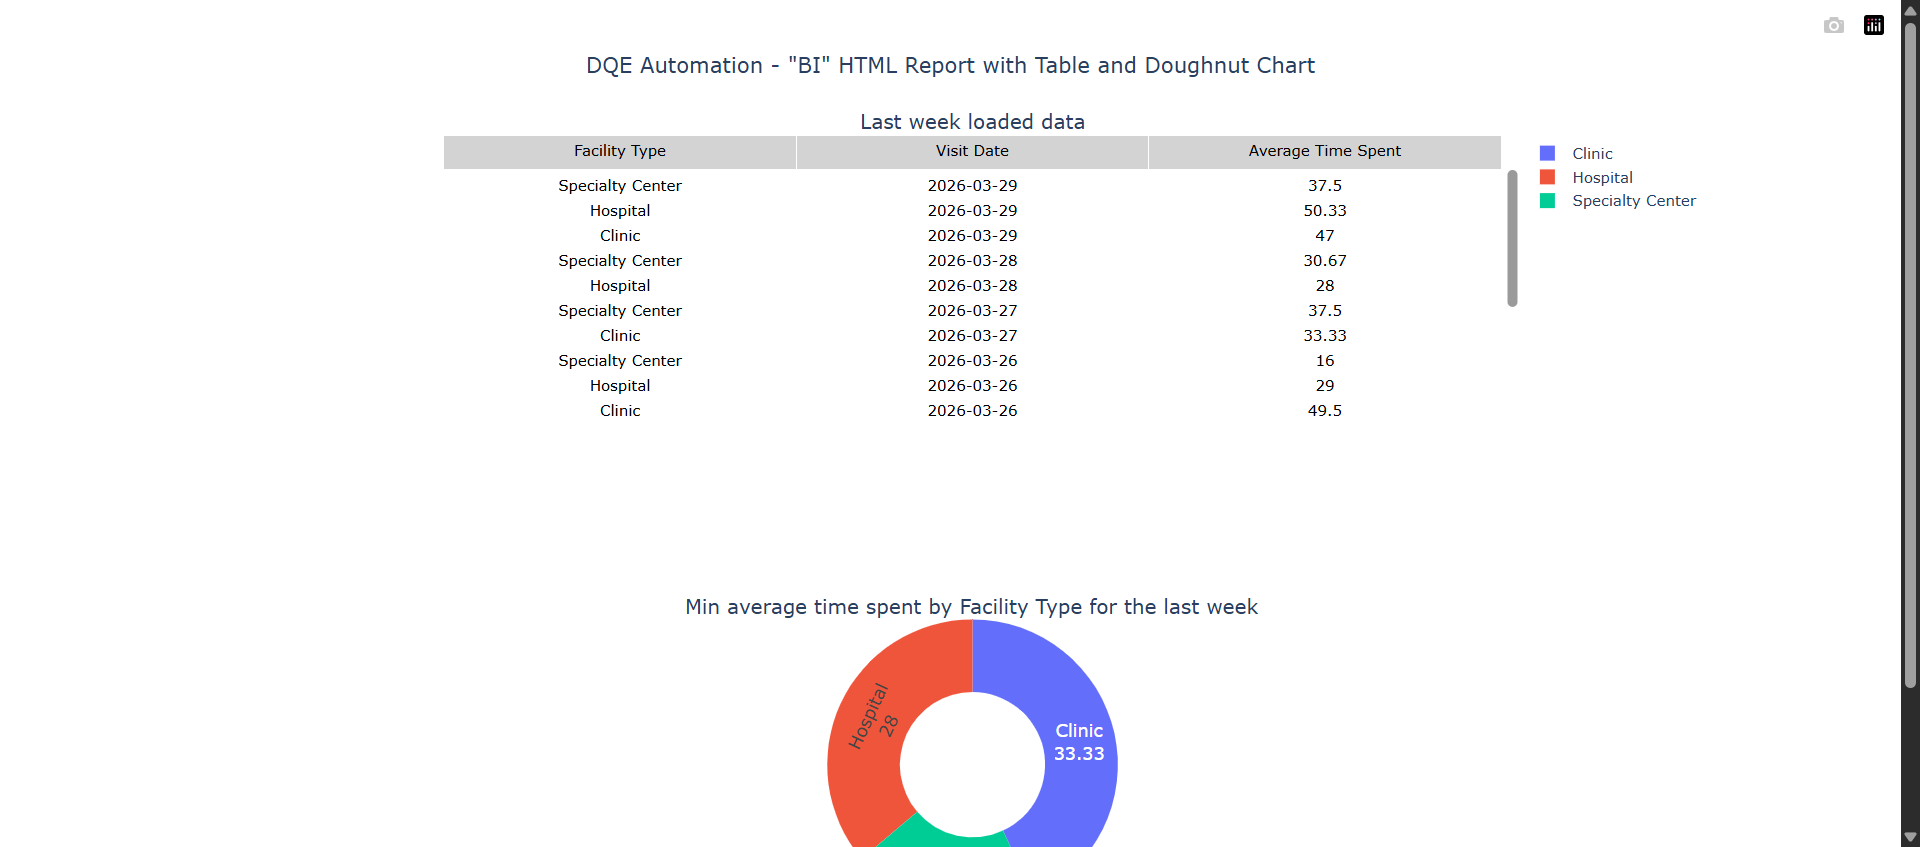
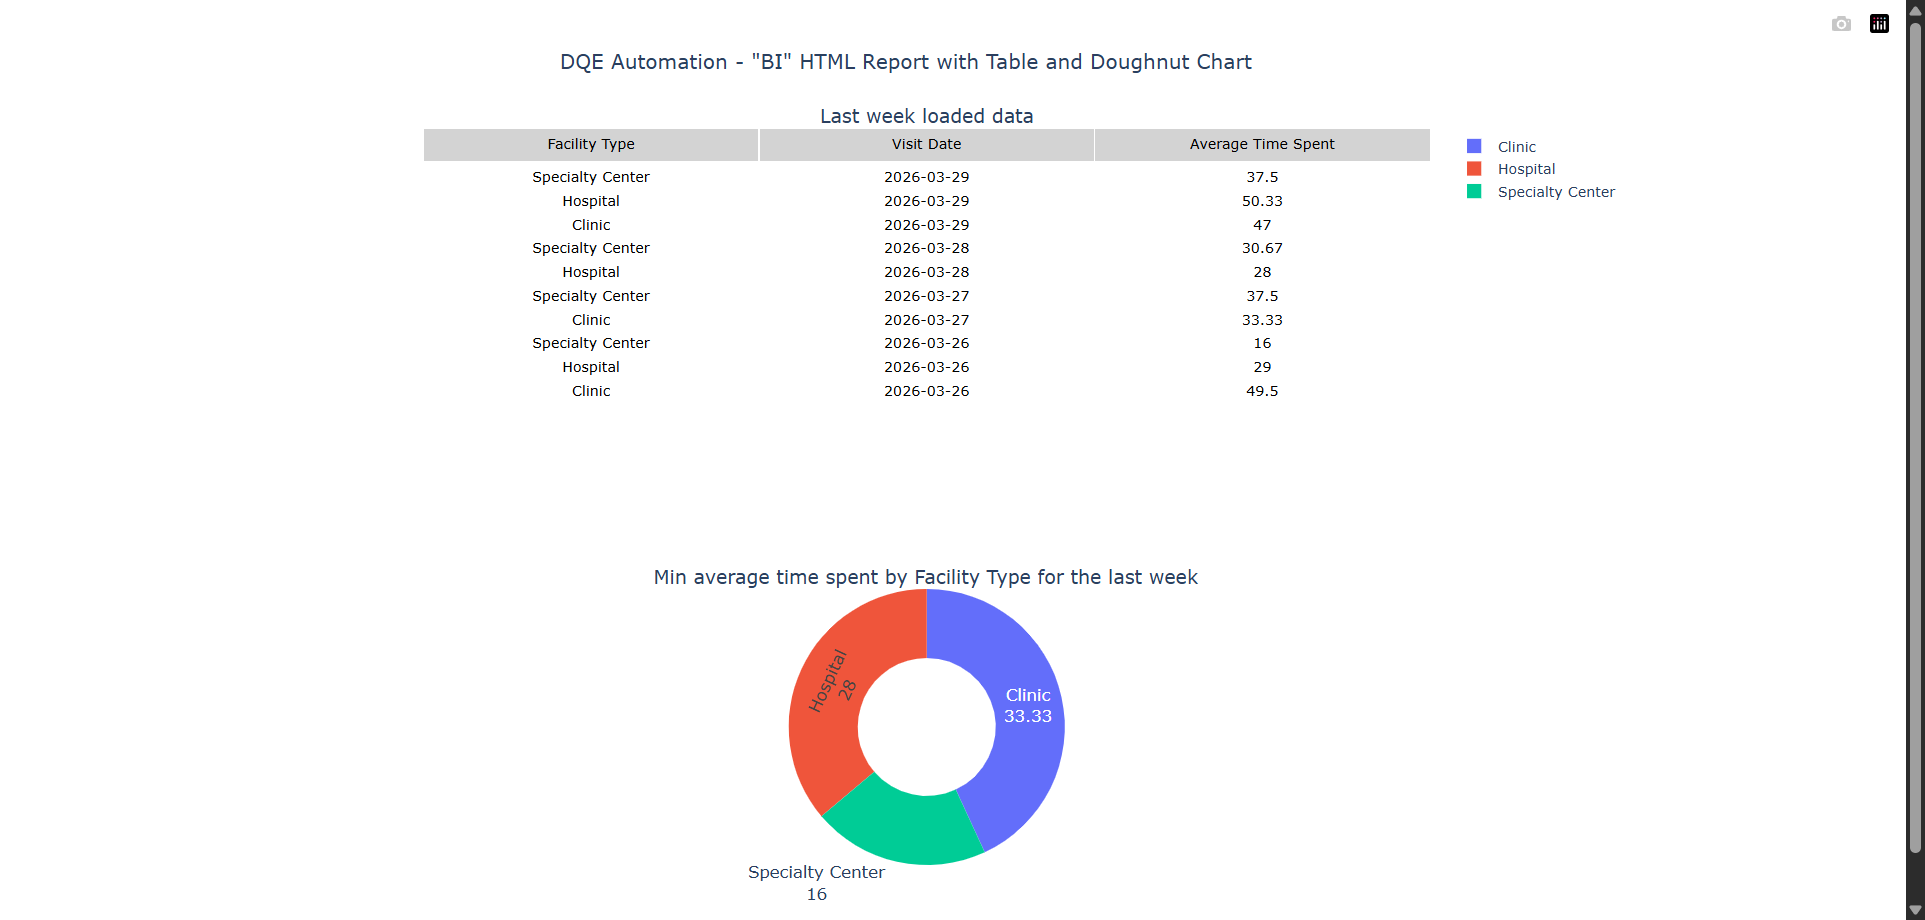
Complete Selenium automation with table extraction and doughnut chart interaction

diff --git a/Selenium Introduction/main.py b/Selenium Introduction/main.py
@@ -20,10 +20,16 @@ class SeleniumWebDriverContextManager:
         options = webdriver.ChromeOptions()
         if self.headless:
             options.add_argument('--headless')
-        options.add_argument('--start-maximized')
+        
+        # Start with large initial size
+        options.add_argument('--window-size=1920,4000')
         options.add_argument('--disable-blink-features=AutomationControlled')
         
         self.driver = webdriver.Chrome(options=options)
+        
+        # Set window size to 4000px height
+        self.driver.set_window_size(1920, 4000)
+        
         return self.driver
     
     def __exit__(self, exc_type, exc_value, traceback):
@@ -142,6 +148,14 @@ def process_doughnut_chart(driver: WebDriver):
     try:
         time.sleep(2)
         
+        # Scroll to top with negative offset to show everything
+        driver.execute_script("window.scrollTo(0, 0);")
+        time.sleep(0.5)
+
+        # Zoom out slightly to fit everything
+        driver.execute_script("document.body.style.zoom='95%'")
+        time.sleep(0.5)
+        
         # Screenshot 0: Initial state
         driver.save_screenshot("screenshot0.png")
         extract_doughnut_data(driver, "doughnut0.csv")
@@ -156,11 +170,19 @@ def process_doughnut_chart(driver: WebDriver):
         
         for i, group in enumerate(legend_groups):
             try:
+                # Scroll to top before each action
+                driver.execute_script("window.scrollTo(0, 0);")
+                time.sleep(0.3)
+                
                 # Move to element and click
                 from selenium.webdriver.common.action_chains import ActionChains
                 actions = ActionChains(driver)
                 actions.move_to_element(group).click().perform()
                 time.sleep(1)
+                
+                # Scroll back to top before screenshot
+                driver.execute_script("window.scrollTo(0, 0);")
+                time.sleep(0.3)
                 
                 # Take screenshot
                 driver.save_screenshot(f"screenshot{screenshot_num}.png")
@@ -182,6 +204,10 @@ def process_doughnut_chart(driver: WebDriver):
                     time.sleep(0.3)
                 except:
                     pass
+            
+            # Scroll to top for final screenshot
+            driver.execute_script("window.scrollTo(0, 0);")
+            time.sleep(0.5)
             
             driver.save_screenshot(f"screenshot{screenshot_num}.png")
             extract_doughnut_data(driver, f"doughnut{screenshot_num}.csv")
